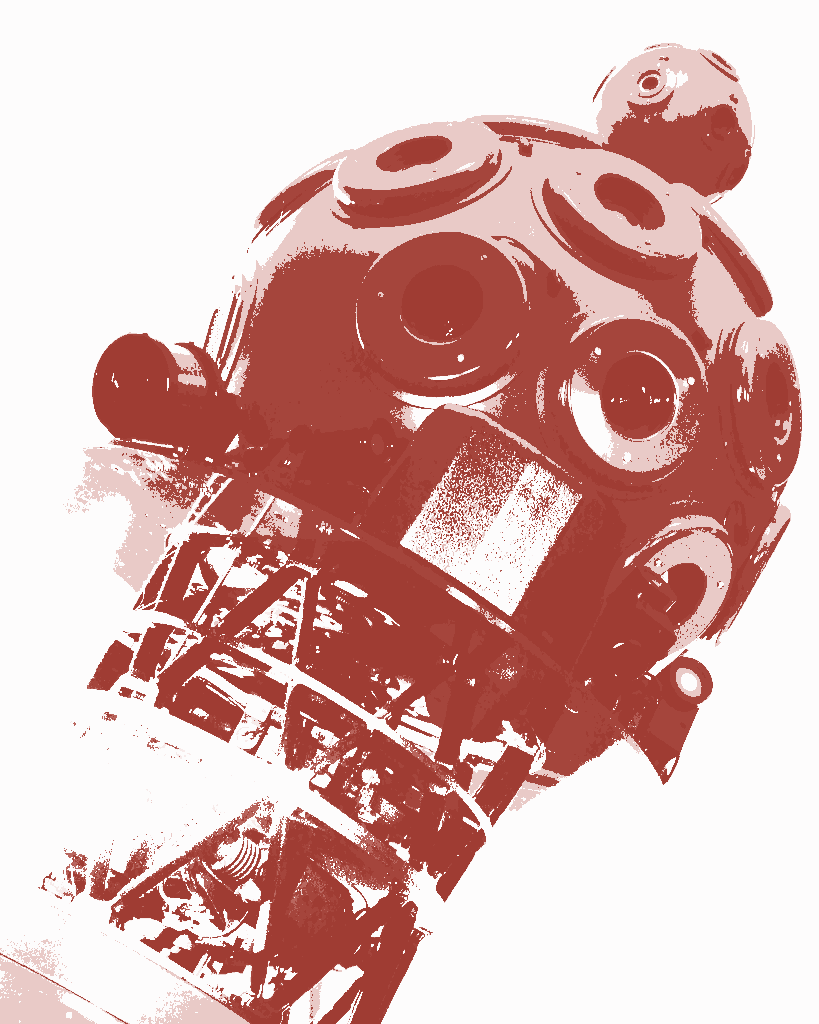
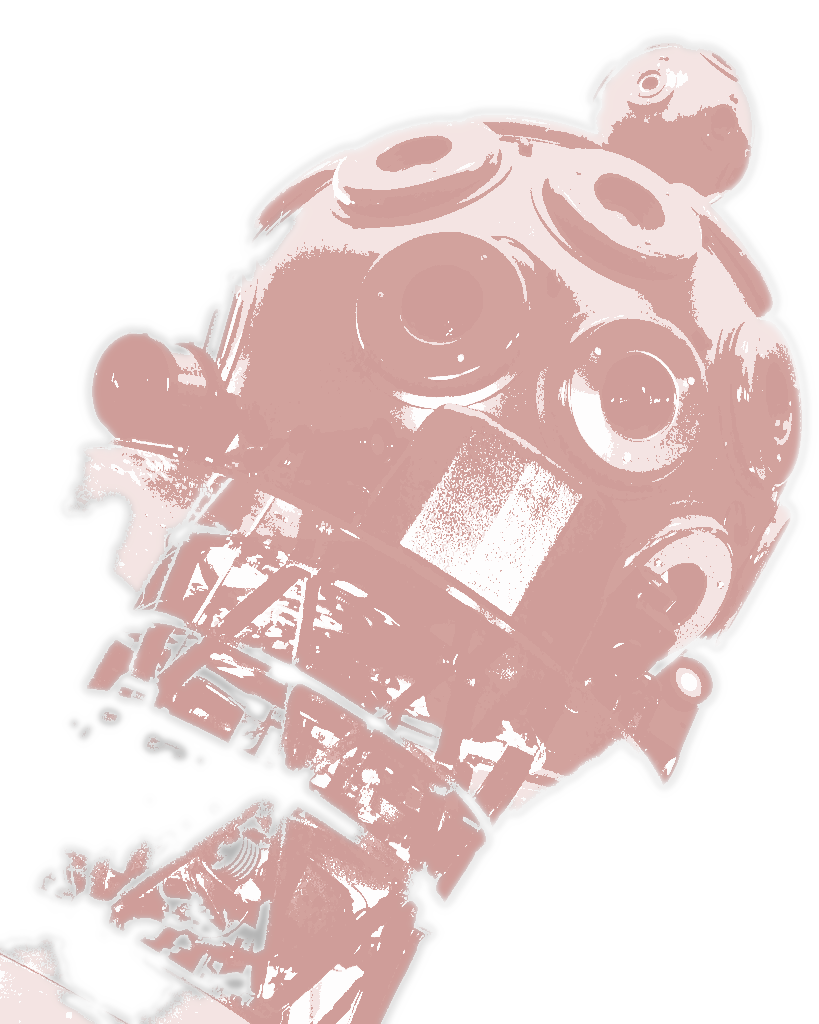
Grab all of the planets from the GitHub topic

diff --git a/docs/cover.css b/docs/cover.css
@@ -1,0 +1,55 @@
+/*
+ * Globals
+ */
+
+
+/* Custom default button */
+.btn-light,
+.btn-light:hover,
+.btn-light:focus {
+  color: #333;
+  text-shadow: none; /* Prevent inheritance from `body` */
+}
+
+
+/*
+ * Base structure
+ */
+
+body {
+  text-shadow: 0 .05rem .1rem rgba(0, 0, 0, .5);
+/*  box-shadow: inset 0 0 5rem rgba(0, 0, 0, .5); */
+  background-image: url(planetarium.png);
+  background-repeat: no-repeat;
+  background-position: top right;
+  background-attachment: fixed;
+  background: linear-gradient(rgba(127, 127, 127, 1), rgba(0, 0, 0, 1)) url(planetarium.png);
+}
+
+.cover-container {
+  max-width: 60em;
+}
+
+
+/*
+ * Header
+ */
+
+.nav-masthead .nav-link {
+  color: rgba(255, 255, 255, .5);
+  border-bottom: .25rem solid transparent;
+}
+
+.nav-masthead .nav-link:hover,
+.nav-masthead .nav-link:focus {
+  border-bottom-color: rgba(255, 255, 255, .25);
+}
+
+.nav-masthead .nav-link + .nav-link {
+  margin-left: 1rem;
+}
+
+.nav-masthead .active {
+  color: #fff;
+  border-bottom-color: #fff;
+}
